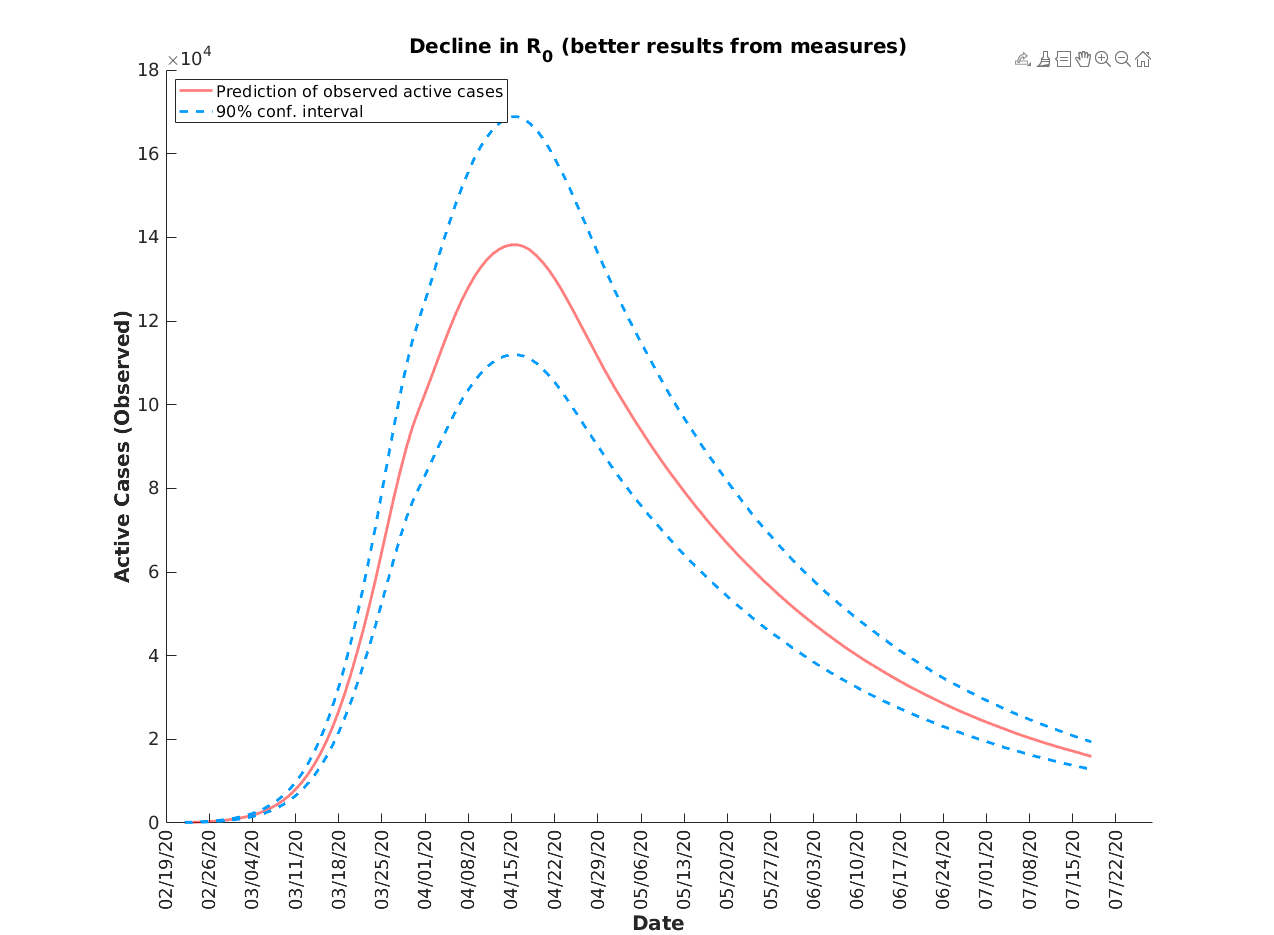
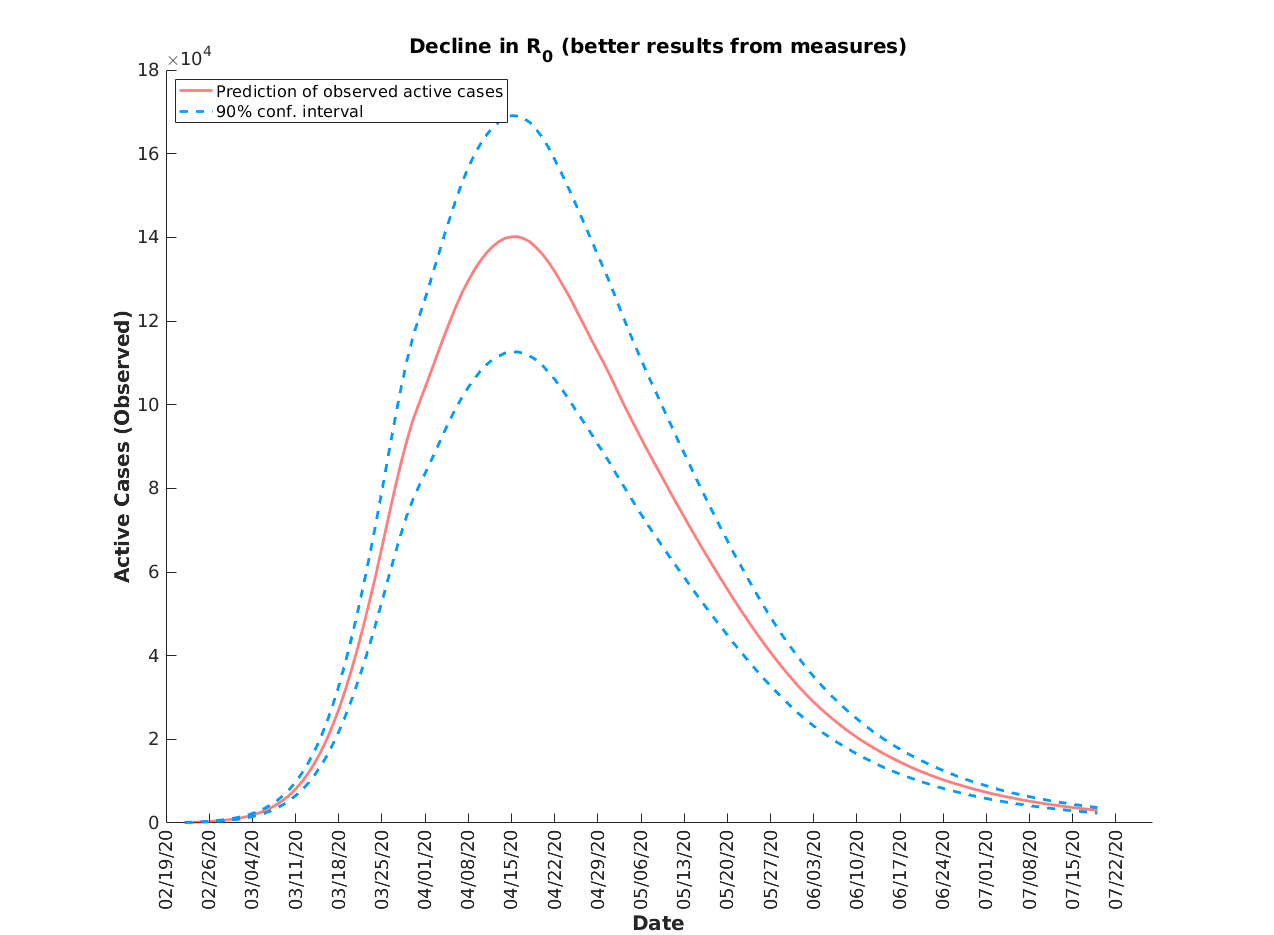
Add files via upload

diff --git a/COVID19 Models/Italy/COVID19_Italy.m b/COVID19 Models/Italy/COVID19_Italy.m
@@ -106,8 +106,8 @@ NewCases_optimistic = diff(TotalCases_optimistic');
 
 % converts from h period of time to daily period of time
 NewCasesDaily_optimistic = squeeze(sum(reshape(NewCases_optimistic, [2, size(NewCases_optimistic,1)*h, size(NewCases_optimistic,2)])))';
-TotalCasesDaily_optimistic= TotalCases(:, 1:(1/h):T/h);    
-ActiveCasesDaily_optimistic= ActiveCases(:, 1:(1/h):T/h);
+TotalCasesDaily_optimistic= TotalCases_optimistic(:, 1:(1/h):T/h);    
+ActiveCasesDaily_optimistic= ActiveCases_optimistic(:, 1:(1/h):T/h);
 
 % build and save plots
 buildPlots(NewCasesDaily_optimistic, TotalCasesDaily_optimistic, ActiveCasesDaily_optimistic, newcases_hist, dates, horizon, detection_time, ...
@@ -126,8 +126,8 @@ NewCases_pessimistic = diff(TotalCases_pessimistic');
 
 % converts from h period of time to daily period of time
 NewCasesDaily_pessimistic = squeeze(sum(reshape(NewCases_pessimistic, [2, size(NewCases_pessimistic,1)*h, size(NewCases_pessimistic,2)])))';
-TotalCasesDaily_pessimistic= TotalCases(:, 1:(1/h):T/h);    
-ActiveCasesDaily_pessimistic= ActiveCases(:, 1:(1/h):T/h);
+TotalCasesDaily_pessimistic= TotalCases_pessimistic(:, 1:(1/h):T/h);    
+ActiveCasesDaily_pessimistic= ActiveCases_pessimistic(:, 1:(1/h):T/h);
 
 % build and save plots
 buildPlots(NewCasesDaily_pessimistic, TotalCasesDaily_pessimistic, ActiveCasesDaily_pessimistic, newcases_hist, dates, horizon, detection_time, ...
